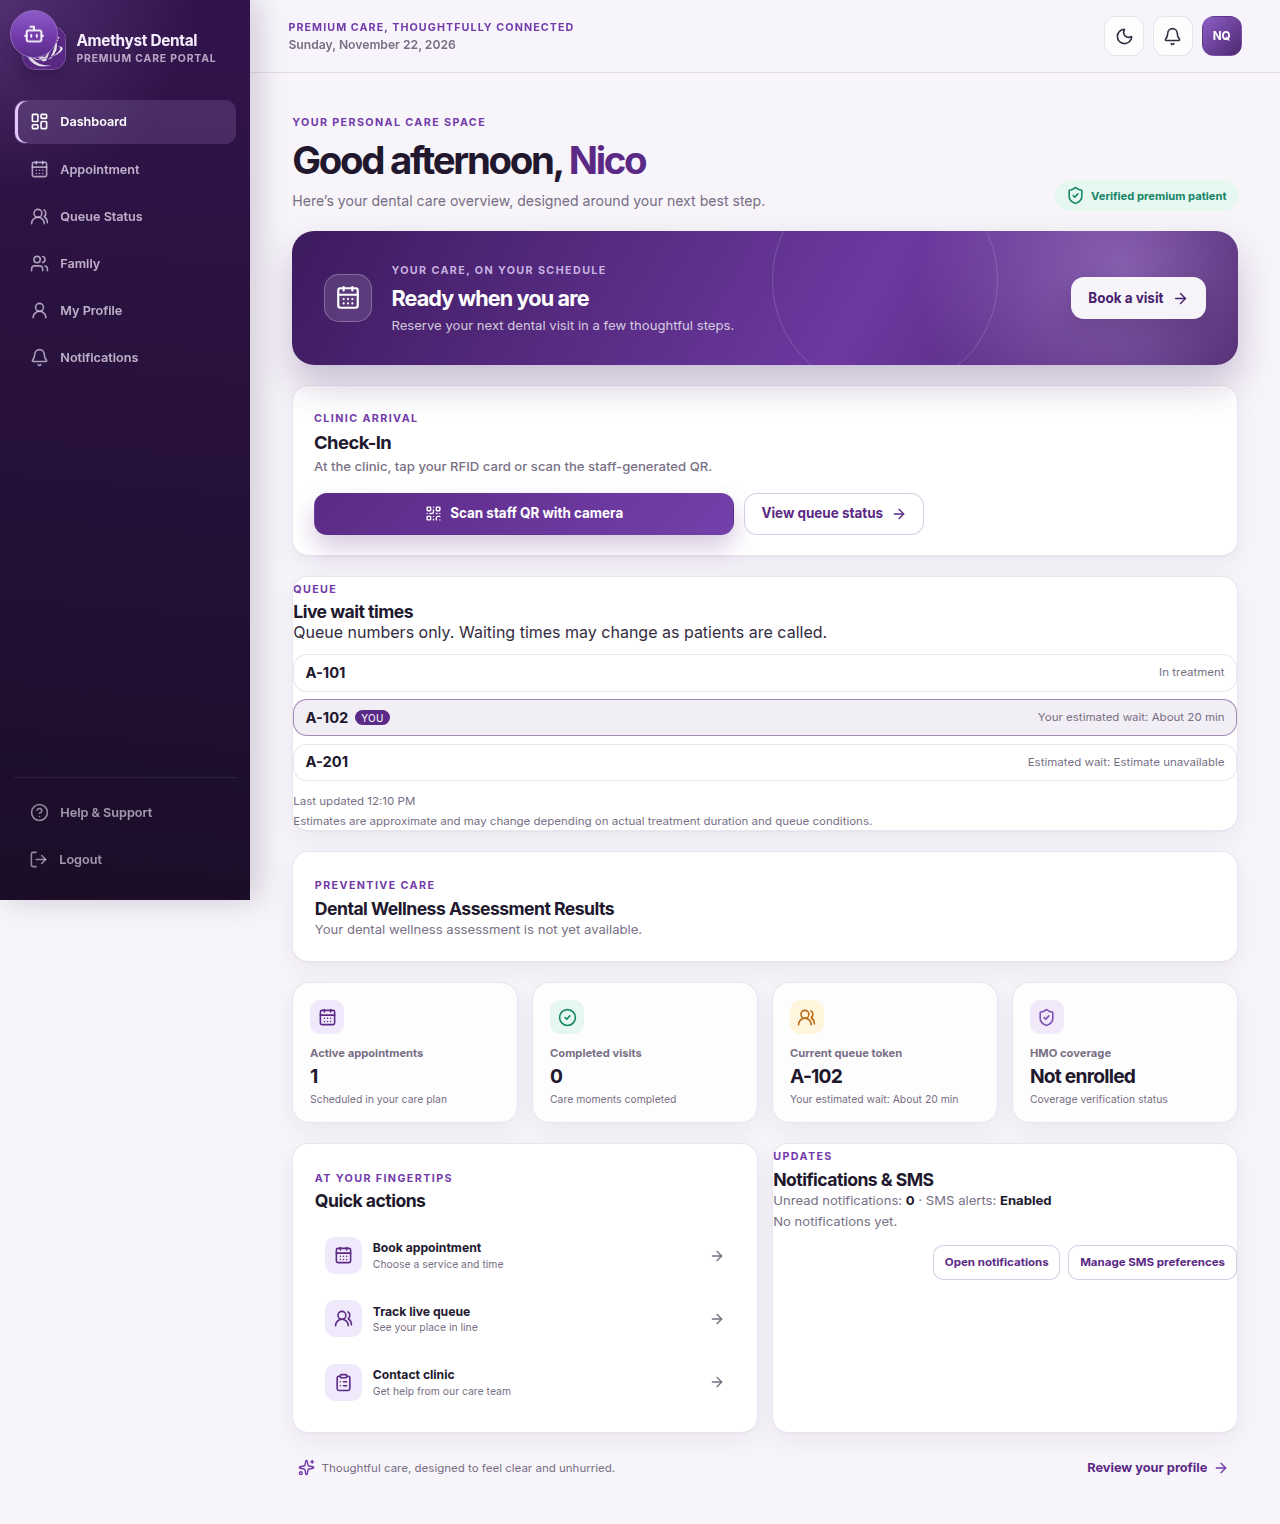
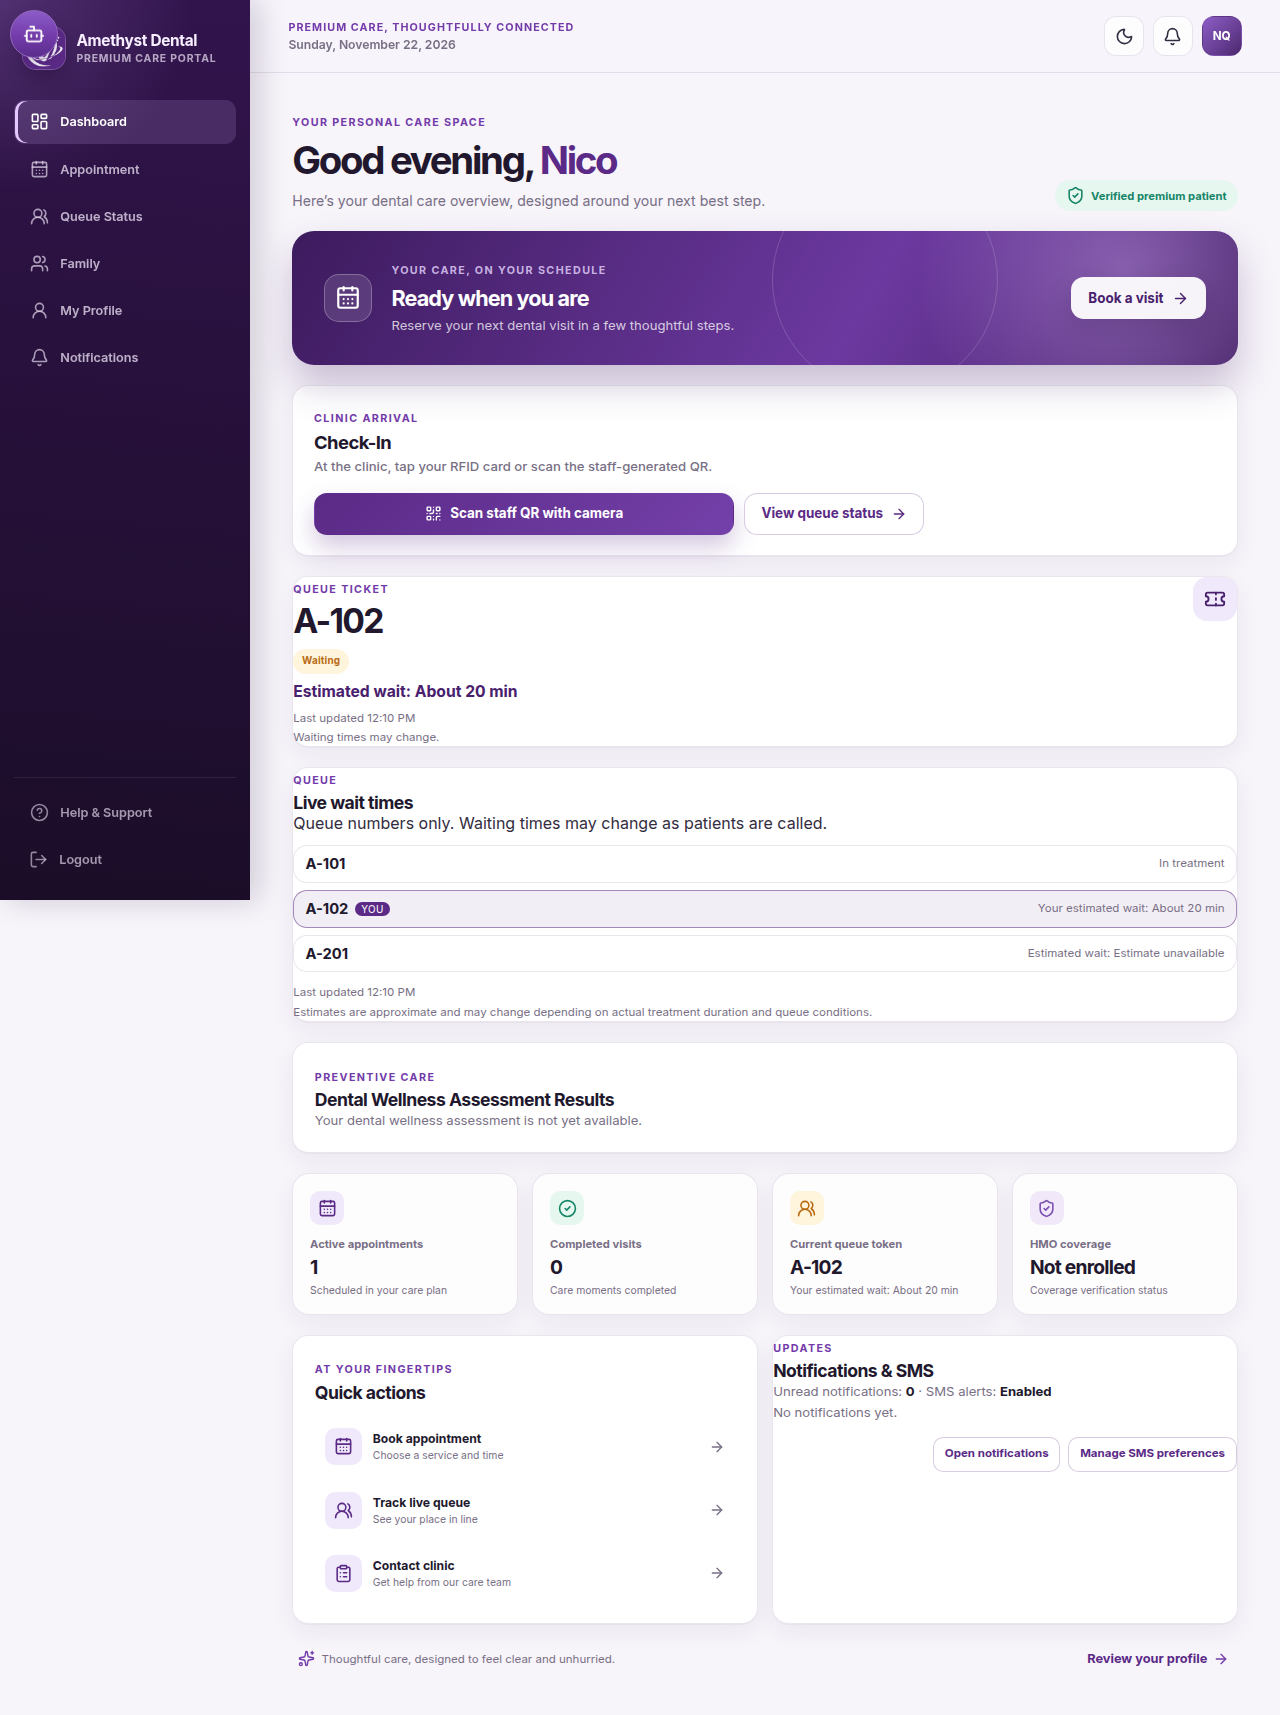
Show the signed-in patient's estimated wait on the queue ticket.
Reuse the Patient Queue wait estimate on the Dashboard ticket and Queue Status hero, including Last updated and a compact change notice, without treating a missing estimate as zero.

diff --git a/frontend/src/index.css b/frontend/src/index.css
@@ -1756,6 +1756,66 @@ html[data-theme="dark"] .portal-shell[data-theme="dark"] ~ .tooth-loader .tooth-
   gap: 0.9rem;
 }
 
+.patient-queue-ticket {
+  display: grid;
+  gap: 0.55rem;
+  min-width: 0;
+}
+.patient-queue-ticket__top {
+  display: flex;
+  flex-wrap: wrap;
+  align-items: flex-start;
+  justify-content: space-between;
+  gap: 0.65rem;
+}
+.patient-queue-ticket__number {
+  margin: 0.2rem 0 0.45rem;
+  color: var(--text-strong);
+  font-size: clamp(1.55rem, 4vw, 2.1rem);
+  font-weight: 800;
+  letter-spacing: -0.05em;
+  overflow-wrap: anywhere;
+}
+.patient-queue-ticket__icon {
+  display: grid;
+  width: 44px;
+  height: 44px;
+  flex-shrink: 0;
+  place-items: center;
+  border-radius: 14px;
+  color: var(--amethyst-800);
+  background: var(--amethyst-100);
+}
+.patient-queue-ticket__wait {
+  margin: 0;
+  color: var(--amethyst-800);
+  font-size: 0.98rem;
+  font-weight: 750;
+  overflow-wrap: anywhere;
+}
+.patient-queue-ticket__meta {
+  display: grid;
+  gap: 0.15rem;
+  margin: 0;
+  color: var(--text-muted);
+  font-size: 0.72rem;
+  line-height: 1.45;
+}
+.queue-hero__wait {
+  margin: 0.1rem 0 0;
+  color: #f4e9ff;
+  font-size: 0.98rem;
+  font-weight: 750;
+  overflow-wrap: anywhere;
+}
+.queue-hero__note {
+  margin: 0;
+  color: rgba(255, 255, 255, 0.72);
+  font-size: 0.72rem;
+  line-height: 1.45;
+  overflow-wrap: anywhere;
+}
+
 .patient-queue-board {
   display: grid;
   gap: 0.75rem;
@@ -1825,6 +1885,9 @@ html[data-theme="dark"] .portal-shell[data-theme="dark"] ~ .tooth-loader .tooth-
 }
 
 @media (max-width: 390px) {
+  .patient-queue-ticket {
+    padding: 1rem 0.95rem;
+  }
   .patient-queue-board__row {
     flex-direction: column;
     align-items: flex-start;
@@ -1832,6 +1895,19 @@ html[data-theme="dark"] .portal-shell[data-theme="dark"] ~ .tooth-loader .tooth-
 
   .patient-queue-board__row small {
     text-align: left;
+  }
+}
+
+@media (max-width: 320px) {
+  .patient-queue-ticket {
+    padding: 0.9rem 0.85rem;
+  }
+  .patient-queue-ticket__number {
+    font-size: 1.4rem;
+  }
+  .queue-hero__wait,
+  .patient-queue-ticket__wait {
+    font-size: 0.9rem;
   }
 }
 

diff --git a/frontend/src/utils/queueWaitEstimate.js b/frontend/src/utils/queueWaitEstimate.js
@@ -45,9 +45,11 @@ export function waitRangeFromEntry(entry) {
     return formatWaitRange(estimate.min, estimate.max, { unavailableLabel: "Estimate unavailable" });
   }
   if (entry?.estimatedWaitMinMinutes != null || entry?.estimatedWaitMaxMinutes != null) {
-    return formatWaitRange(entry.estimatedWaitMinMinutes, entry.estimatedWaitMaxMinutes);
+    return formatWaitRange(entry.estimatedWaitMinMinutes, entry.estimatedWaitMaxMinutes, {
+      unavailableLabel: "Estimate unavailable",
+    });
   }
-  if (entry?.waitMinutes != null) {
+  if (entry?.waitMinutes != null && Number(entry.waitMinutes) > 0) {
     return formatWaitRange(entry.waitMinutes, entry.waitMinutes, { unavailableLabel: "Estimate unavailable" });
   }
   return "Estimate unavailable";
@@ -69,6 +71,19 @@ export function queueStatusWaitLabel(entry) {
   if (status === "no_show") return "No-show";
   if (status === "cancelled") return "Cancelled";
   return compactAbout(waitRangeFromEntry(entry));
+}
+
+export function ticketWaitLine(entry) {
+  const status = String(entry?.status || "").toLowerCase();
+  if (status === "dentist" || status === "in_chair" || status === "in_treatment") return "In treatment";
+  if (status === "completed") return "Completed";
+  if (status === "no_show") return "No-show";
+  if (status === "cancelled") return "Cancelled";
+  const label = queueStatusWaitLabel(entry);
+  if (label === "Now") return "Estimated wait: Now";
+  if (label === "Treatment running long") return "Estimated wait: Treatment running long";
+  if (label === "Estimate unavailable") return "Estimated wait: Estimate unavailable";
+  return `Estimated wait: ${label}`;
 }
 
 export function compactQueueWaitCaption(entry) {
@@ -128,3 +143,5 @@ export function publicQueueNumber(entry) {
 
 export const QUEUE_WAIT_DISCLAIMER =
   "Estimates are approximate and may change depending on actual treatment duration and queue conditions.";
+
+export const TICKET_WAIT_NOTE = "Waiting times may change.";

diff --git a/frontend/src/pages/QueuePage.jsx b/frontend/src/pages/QueuePage.jsx
@@ -16,8 +16,11 @@ import { displayQueueStatus } from "../utils/walkInQr";
 import { PatientQueueBoard } from "../components/PatientQueueBoard";
 import {
   callRangeFromEntry,
+  formatWaitUpdatedAt,
   QUEUE_WAIT_DISCLAIMER,
-  waitRangeFromEntry,
+  queueStatusWaitLabel,
+  ticketWaitLine,
+  TICKET_WAIT_NOTE,
 } from "../utils/queueWaitEstimate";
 
 export function QueuePage() {
@@ -124,6 +127,14 @@ export function QueuePage() {
                   <strong>{displayQueueStatus(current.status)}</strong>
                 </div>
               </div>
+              <p className="queue-hero__wait">{ticketWaitLine(current)}</p>
+              <p className="queue-hero__note">
+                {formatWaitUpdatedAt(queueData.lastUpdatedAt || current?.waitEstimate?.calculatedAt)
+                  ? `Last updated ${formatWaitUpdatedAt(queueData.lastUpdatedAt || current?.waitEstimate?.calculatedAt)}`
+                  : "Last updated —"}
+                {" · "}
+                {TICKET_WAIT_NOTE}
+              </p>
             </div>
             <div className="queue-glow-ring" aria-label={`Your ticket ${current.token}`}>
               <Ticket size={31} />
@@ -169,11 +180,7 @@ export function QueuePage() {
               ) : null}
               <div className="queue-estimate">
                 <strong>Estimated waiting time</strong>
-                <span>
-                  {current.status === "dentist"
-                    ? "Now — you are being seen"
-                    : waitRangeFromEntry(current)}
-                </span>
+                <span>{queueStatusWaitLabel(current)}</span>
               </div>
               <div className="queue-estimate">
                 <strong>Estimated call time</strong>

diff --git a/frontend/src/utils/queueWaitEstimate.test.js b/frontend/src/utils/queueWaitEstimate.test.js
@@ -1,6 +1,6 @@
 import assert from "node:assert/strict";
 import test from "node:test";
-import { compactQueueWaitCaption, waitRangeFromEntry } from "./queueWaitEstimate.js";
+import { compactQueueWaitCaption, ticketWaitLine, waitRangeFromEntry } from "./queueWaitEstimate.js";
 
 test("compact captions highlight the signed-in patient without inventing waits", () => {
   assert.equal(
@@ -32,4 +32,33 @@ test("compact captions highlight the signed-in patient without inventing waits",
     waitRangeFromEntry({ waitEstimate: { treatmentOverrun: true, estimatedWaitMinutes: { min: 0, max: 0 } } }),
     "Treatment running long"
   );
+  assert.equal(waitRangeFromEntry({ waitMinutes: 0 }), "Estimate unavailable");
+});
+
+test("ticket wait line uses the same backend labels without inventing Now", () => {
+  assert.equal(
+    ticketWaitLine({
+      status: "waiting",
+      waitEstimate: { estimatedWaitMinutes: { min: 8, max: 8 } },
+    }),
+    "Estimated wait: About 8 min"
+  );
+  assert.equal(
+    ticketWaitLine({
+      status: "waiting",
+      waitEstimate: { estimatedWaitMinutes: { min: 0, max: 0 } },
+    }),
+    "Estimated wait: Now"
+  );
+  assert.equal(
+    ticketWaitLine({ status: "waiting", waitEstimate: { unavailable: true } }),
+    "Estimated wait: Estimate unavailable"
+  );
+  assert.equal(
+    ticketWaitLine({ status: "waiting", waitEstimate: { treatmentOverrun: true } }),
+    "Estimated wait: Treatment running long"
+  );
+  assert.equal(ticketWaitLine({ status: "dentist" }), "In treatment");
+  assert.equal(ticketWaitLine({ status: "completed" }), "Completed");
+  assert.equal(ticketWaitLine({ status: "waiting" }), "Estimated wait: Estimate unavailable");
 });

diff --git a/frontend/src/pages/patientQueueTicket.test.js b/frontend/src/pages/patientQueueTicket.test.js
@@ -1,0 +1,30 @@
+import assert from "node:assert/strict";
+import fs from "node:fs";
+import path from "path";
+import test from "node:test";
+import { fileURLToPath } from "node:url";
+
+const root = path.join(path.dirname(fileURLToPath(import.meta.url)), "..");
+const css = fs.readFileSync(path.join(root, "index.css"), "utf8");
+const dashboard = fs.readFileSync(path.join(root, "pages", "DashboardPage.jsx"), "utf8");
+const queue = fs.readFileSync(path.join(root, "pages", "QueuePage.jsx"), "utf8");
+const ticket = fs.readFileSync(path.join(root, "components", "PatientQueueTicket.jsx"), "utf8");
+const estimate = fs.readFileSync(path.join(root, "utils", "queueWaitEstimate.js"), "utf8");
+
+test("dashboard queue ticket reuses the queue wait helper", () => {
+  assert.match(dashboard, /PatientQueueTicket/);
+  assert.match(ticket, /ticketWaitLine/);
+  assert.match(ticket, /TICKET_WAIT_NOTE/);
+  assert.match(ticket, /Last updated/);
+  assert.match(queue, /ticketWaitLine\(current\)/);
+  assert.match(queue, /queueStatusWaitLabel\(current\)/);
+  assert.match(estimate, /export function ticketWaitLine/);
+  assert.doesNotMatch(queue, /Now — you are being seen/);
+});
+
+test("queue ticket wraps at 320px and 390px", () => {
+  assert.match(css, /\.patient-queue-ticket \{[\s\S]*min-width: 0;/);
+  assert.match(css, /@media \(max-width: 390px\) \{[\s\S]*\.patient-queue-ticket \{[\s\S]*padding: 1rem 0\.95rem;/);
+  assert.match(css, /@media \(max-width: 320px\) \{[\s\S]*\.patient-queue-ticket__number \{[\s\S]*font-size: 1\.4rem;/);
+  assert.match(css, /\.queue-hero__wait \{[\s\S]*overflow-wrap: anywhere;/);
+});

diff --git a/backend/test/remainingWait.postgres.test.js b/backend/test/remainingWait.postgres.test.js
@@ -259,6 +259,14 @@ test("remaining chair time plus added procedures publish to the patient queue AP
     return row?.waitEstimate || json?.queue?.waitEstimate || null;
   }
 
+  {
+    const staffToken = jwt.sign({ id: "9", role: "staff" }, jwtSecret, { expiresIn: "1h" });
+    const denied = await fetch(`${base}/api/patient/queue`, {
+      headers: { authorization: `Bearer ${staffToken}` },
+    });
+    assert.ok([401, 403].includes(denied.status), `staff denied ${denied.status}`);
+  }
+
   const firstLoad = await asUser(nextPatient, "/api/patient/queue");
   assert.equal(firstLoad.status, 200, firstLoad.json.message);
   const firstNext = minutesFor(firstLoad.json, "A-102").estimatedWaitMinutes.min;
@@ -273,7 +281,13 @@ test("remaining chair time plus added procedures publish to the patient queue AP
 
   const dashboard = await asUser(nextPatient, "/api/patient/dashboard");
   assert.equal(minutesFor(dashboard.json, "A-102").estimatedWaitMinutes.min, firstNext);
+  assert.equal(firstLoad.json.current.waitEstimate.estimatedWaitMinutes.min, firstNext);
+  assert.equal(dashboard.json.queue.waitEstimate.estimatedWaitMinutes.min, firstNext);
+  assert.equal(dashboard.json.queue.token, "A-102");
   assert.equal(dashboard.json.queueBoard.entries.some((row) => row.token === "B-001"), false);
+  const stranger = await asUser(otherBranchPatient, "/api/patient/queue");
+  assert.equal(stranger.json.current?.token, "B-001");
+  assert.equal((stranger.json.queue || []).some((row) => row.token === "A-102"), false);
 
   await db.query(
     `INSERT INTO clinic_patient_treatments

diff --git a/backend/routes/patientPortal.js b/backend/routes/patientPortal.js
@@ -965,7 +965,10 @@ function createPatientPortalRouter({
               position: queue.position,
               status: queue.status,
               estimatedWaitMinutes: waitEnabled ? queue.estimated_wait_minutes : null,
-              waitEstimate: queueBoard.current?.waitEstimate || null,
+              waitEstimate:
+                queueBoard.current?.waitEstimate ||
+                (queueBoard.entries || []).find((row) => row.isCurrentPatient)?.waitEstimate ||
+                null,
               isCurrentPatient: true,
             }
           : null,
@@ -1621,7 +1624,7 @@ function createPatientPortalRouter({
       const waitEnabled = aiSettings
         ? isAiFeatureEnabled(aiSettings, "waitingTimePrediction")
         : true;
-      const waitEstimate = waitEnabled ? publicWaitEstimate(waitEstimateFromRow(current)) : null;
+      let waitEstimate = waitEnabled ? publicWaitEstimate(waitEstimateFromRow(current)) : null;
       const visitProcedures = current
         ? await listTreatmentsForVisit(db, {
             queueEntryId: current.id,
@@ -1640,6 +1643,11 @@ function createPatientPortalRouter({
         entries: [],
         lastUpdatedAt: null,
       }));
+      const boardSelf =
+        (queueBoard.entries || []).find((row) => row.isCurrentPatient) || queueBoard.current || null;
+      if (boardSelf?.waitEstimate) {
+        waitEstimate = boardSelf.waitEstimate;
+      }
 
       return res.json({
         nowServing: nowServing?.token || null,

diff --git a/frontend/src/components/PatientQueueTicket.jsx b/frontend/src/components/PatientQueueTicket.jsx
@@ -1,0 +1,31 @@
+import { Ticket } from "lucide-react";
+import { displayQueueStatus } from "../utils/walkInQr";
+import { formatWaitUpdatedAt, ticketWaitLine, TICKET_WAIT_NOTE } from "../utils/queueWaitEstimate";
+
+export function PatientQueueTicket({ entry, lastUpdatedAt }) {
+  if (!entry?.token && !entry?.queueNumber) return null;
+  const token = entry.token || entry.queueNumber;
+  const updated = formatWaitUpdatedAt(lastUpdatedAt || entry?.waitEstimate?.calculatedAt);
+
+  return (
+    <section className="glass-card patient-queue-ticket" aria-label="Your queue ticket">
+      <div className="patient-queue-ticket__top">
+        <div>
+          <span className="eyebrow">Queue ticket</span>
+          <p className="patient-queue-ticket__number">{token}</p>
+          <span className={`status-pill status-pill--${String(entry.status || "waiting").toLowerCase()}`}>
+            {displayQueueStatus(entry.status)}
+          </span>
+        </div>
+        <span className="patient-queue-ticket__icon" aria-hidden="true">
+          <Ticket size={22} />
+        </span>
+      </div>
+      <p className="patient-queue-ticket__wait">{ticketWaitLine(entry)}</p>
+      <p className="patient-queue-ticket__meta">
+        {updated ? <span>Last updated {updated}</span> : <span>Last updated —</span>}
+        <span>{TICKET_WAIT_NOTE}</span>
+      </p>
+    </section>
+  );
+}

diff --git a/backend/test/patientQueueWaitBoard.browser.test.js b/backend/test/patientQueueWaitBoard.browser.test.js
@@ -172,6 +172,9 @@ test("Patient Dashboard Queue shows compact waits at 320, 390, and desktop", { t
   const desktop = await page.evaluate(() => document.body.innerText);
   assert.match(desktop, /Live wait times/);
   assert.match(desktop, /Your estimated wait: About 20 min/);
+  assert.match(desktop, /Estimated wait: About 20 min/);
+  assert.match(desktop, /QUEUE TICKET/i);
+  assert.match(desktop, /Waiting times may change/);
   assert.match(desktop, /In treatment/);
   assert.match(desktop, /Estimate unavailable/);
   assert.match(desktop, /Last updated/);
@@ -179,7 +182,9 @@ test("Patient Dashboard Queue shows compact waits at 320, 390, and desktop", { t
   await shot("patient-dashboard-queue-desktop.png");
 
   await open("/queue", 1280, 900, false);
-  assert.match(await page.evaluate(() => document.body.innerText), /Your estimated wait: About 20 min/);
+  const queueText = await page.evaluate(() => document.body.innerText);
+  assert.match(queueText, /Your estimated wait: About 20 min/);
+  assert.match(queueText, /Estimated wait: About 20 min/);
   await shot("patient-queue-page-desktop.png");
 
   await open("/dashboard", 390, 844, true);

diff --git a/frontend/src/pages/DashboardPage.jsx b/frontend/src/pages/DashboardPage.jsx
@@ -15,6 +15,7 @@ import { api } from "../api";
 import { DetailLink, ErrorState, LoadingState } from "../components/UI";
 import { PatientQrCheckInScanner } from "../components/PatientQrCheckInScanner";
 import { PatientQueueBoard } from "../components/PatientQueueBoard";
+import { PatientQueueTicket } from "../components/PatientQueueTicket";
 import { getPatientNotificationTarget } from "../patientNotificationNav";
 import { compactQueueWaitCaption } from "../utils/queueWaitEstimate";
 
@@ -240,6 +241,13 @@ export function DashboardPage() {
           </button>
         </div>
       </section>
+
+      {dashboard.queue ? (
+        <PatientQueueTicket
+          entry={{ ...dashboard.queue, isCurrentPatient: true }}
+          lastUpdatedAt={dashboard.queueBoard?.lastUpdatedAt || dashboard.queue?.waitEstimate?.calculatedAt}
+        />
+      ) : null}
 
       <PatientQueueBoard
         entries={dashboard.queueBoard?.entries || (dashboard.queue ? [{ ...dashboard.queue, isCurrentPatient: true }] : [])}
